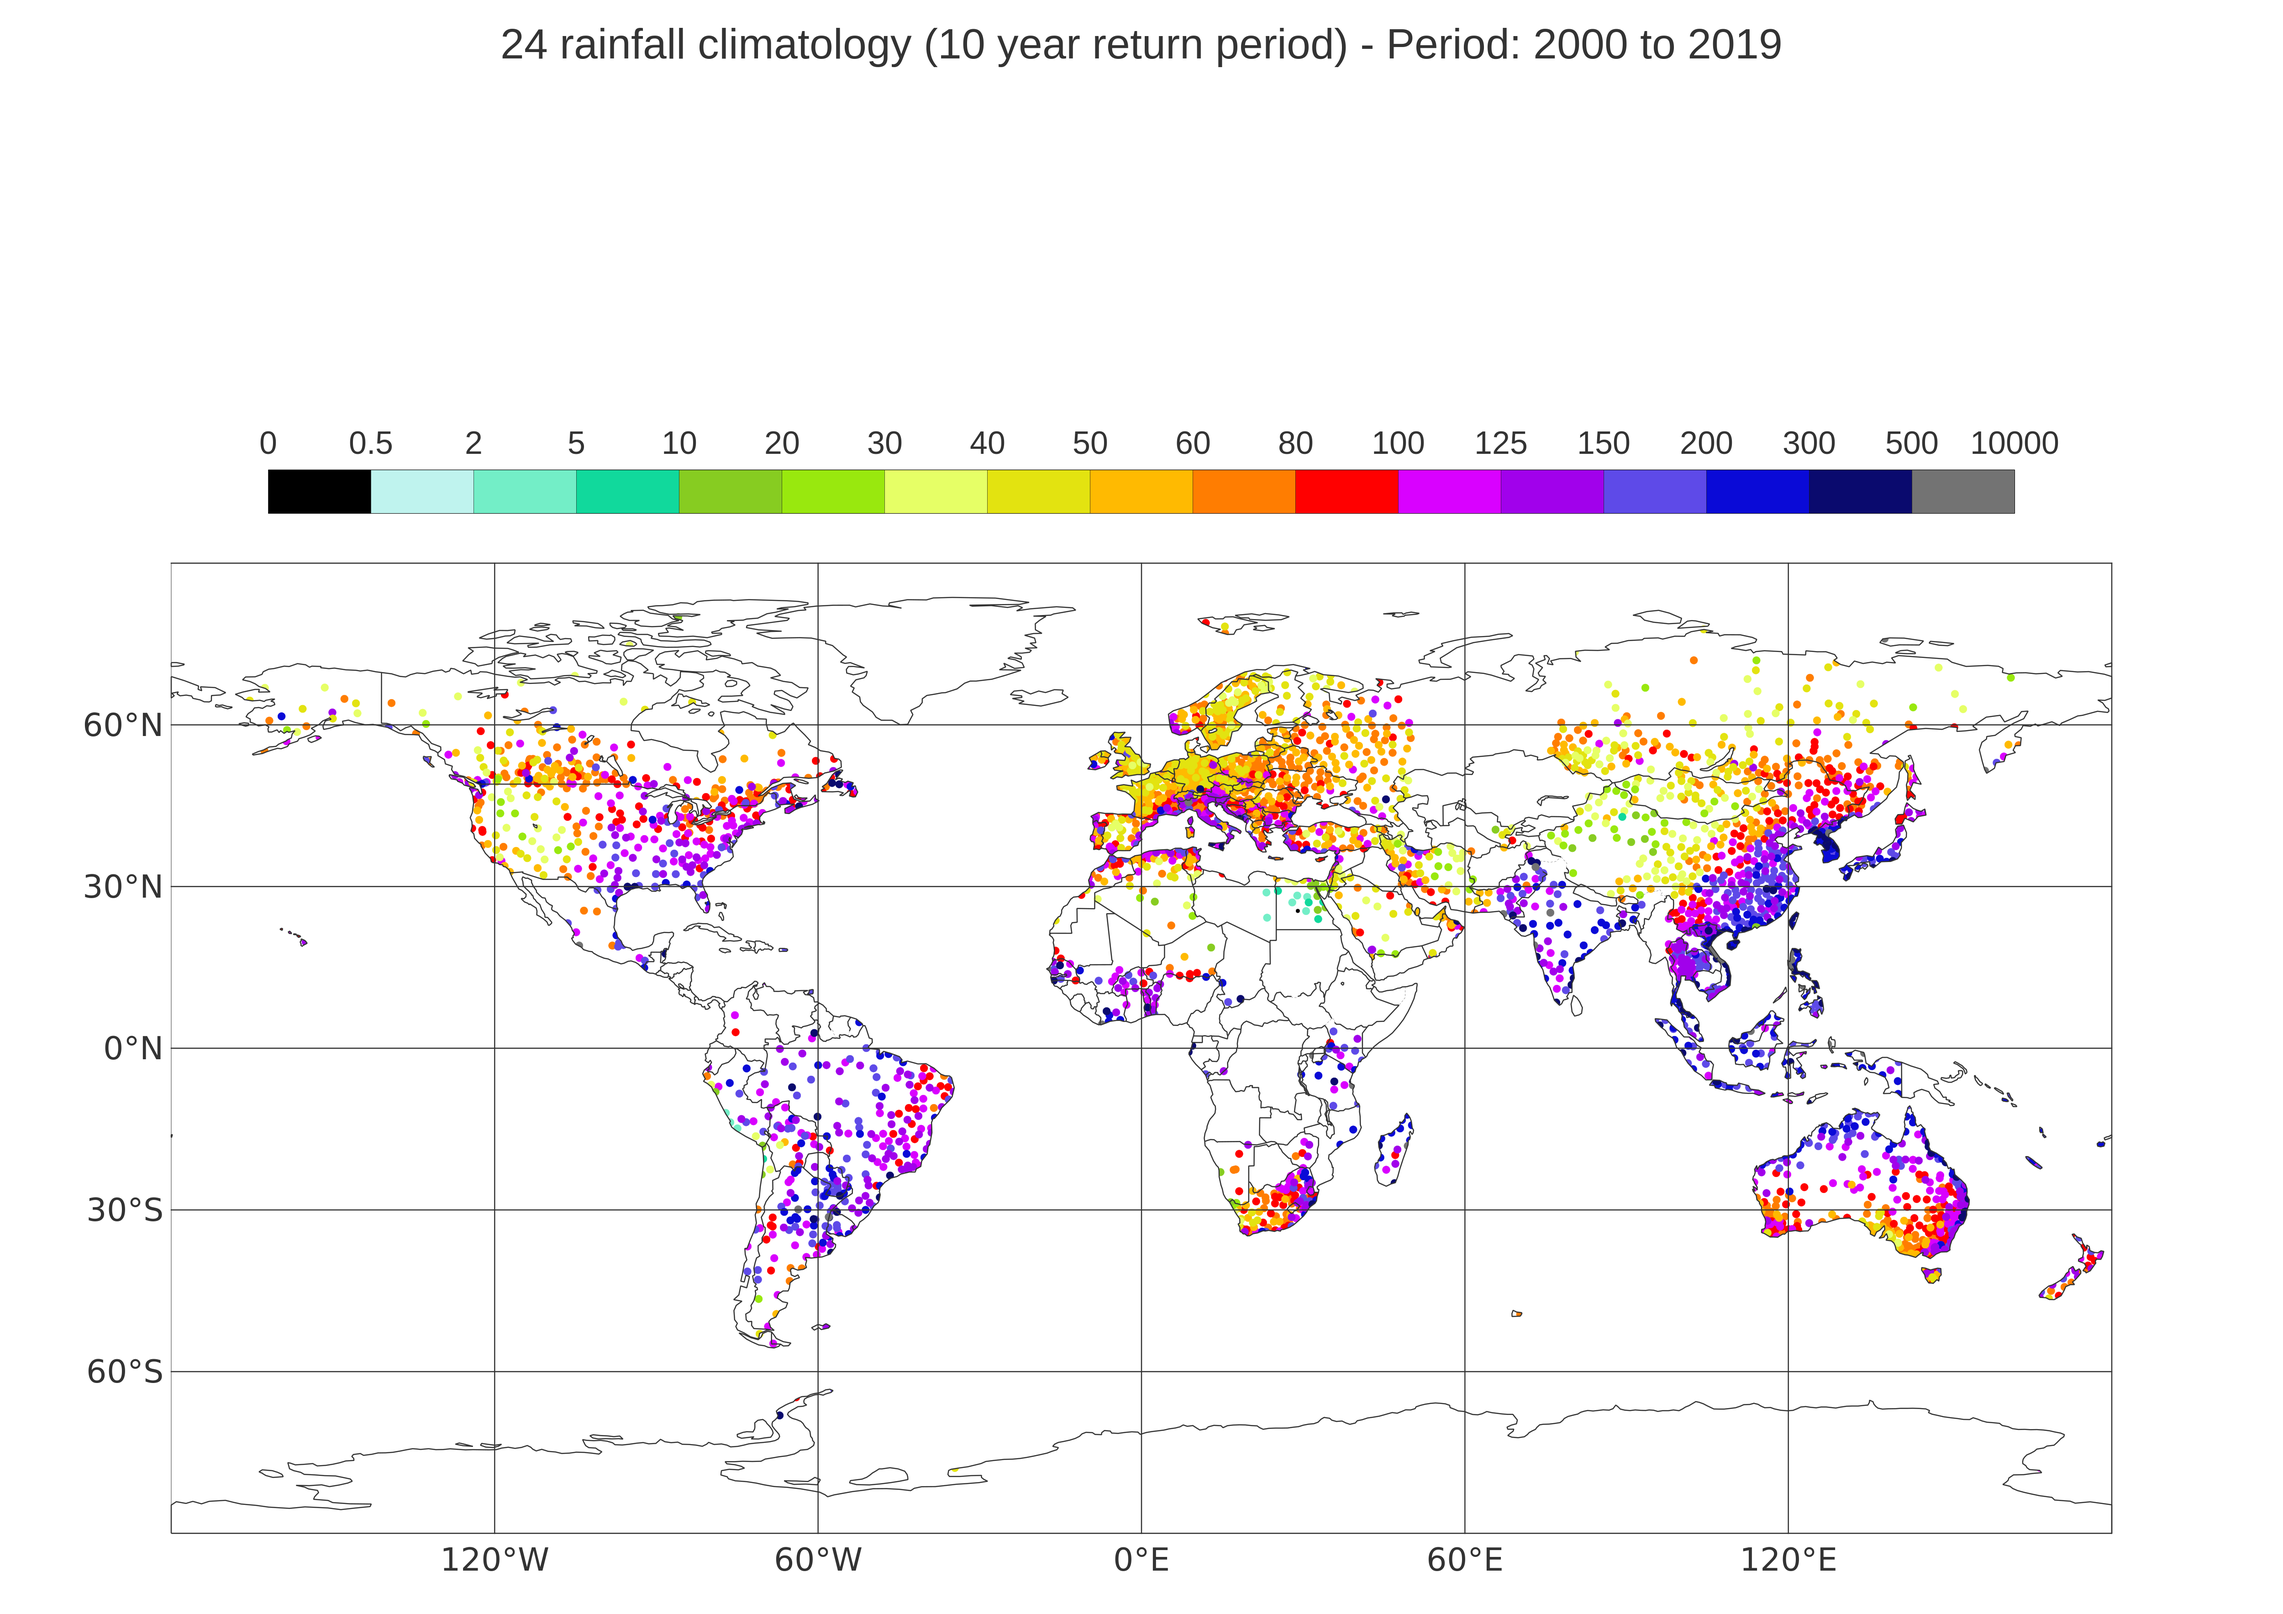
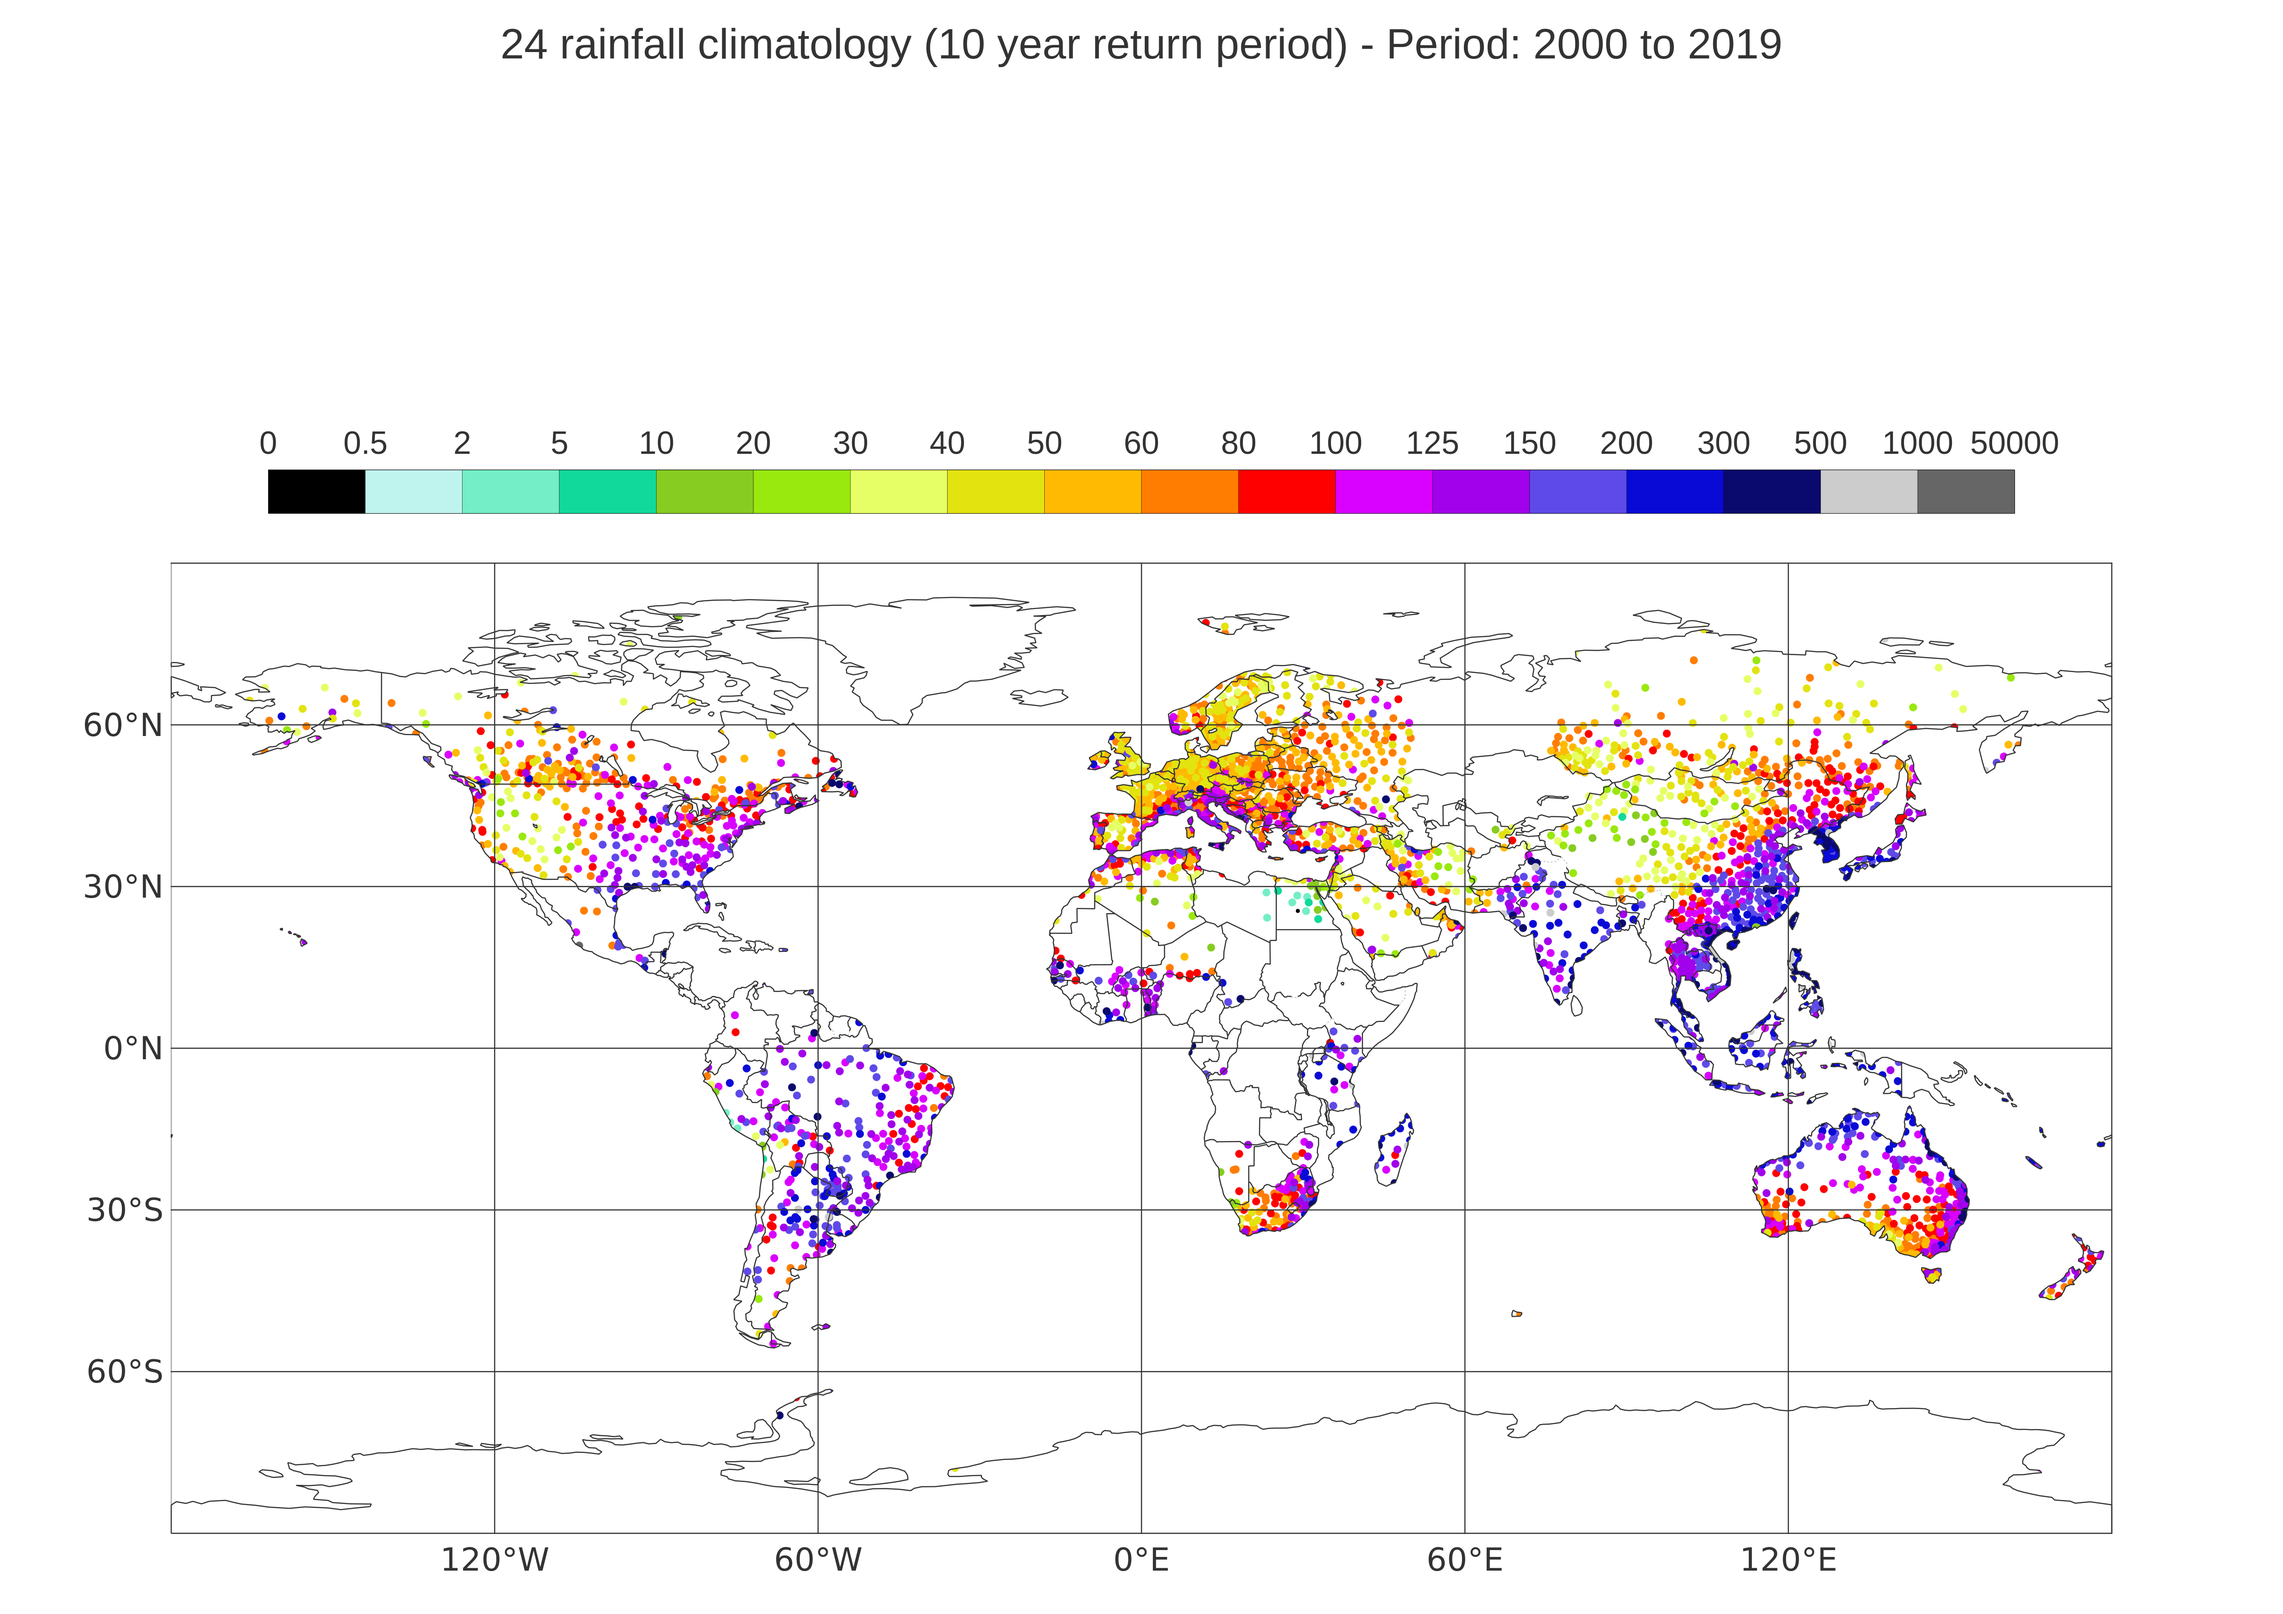
Added the plots of the observational point rainfall climatologies.

Changed region(s): [[0.3744, 0.2489, 0.8736, 0.3423], [0.2808, 0.2489, 0.3432, 0.3112], [0.1872, 0.2801, 0.2496, 0.3112]]

diff --git a/Scripts/Processed/02_Plot_Climate_OBS.py b/Scripts/Processed/02_Plot_Climate_OBS.py
@@ -90,10 +90,10 @@ for ind_RP in range(len(RP_2_Plot_list)):
             symbol_table_mode = "ON",
             legend = "ON",
             symbol_quality = "HIGH",
-            symbol_min_table = [ 0,0.5,2,5,10,20,30,40,50,60,80,100,125,150,200,300,500],
-            symbol_max_table = [ 0.5,2,5,10,20,30,40,50,60,80,100,125,150,200,300,500,10000],
+            symbol_min_table = [ 0,0.5,2,5,10,20,30,40,50,60,80,100,125,150,200,300,500, 1000],
+            symbol_max_table = [ 0.5,2,5,10,20,30,40,50,60,80,100,125,150,200,300,500,1000, 50000],
             symbol_marker_table = [ 15,15,15,15,15,15,15,15,15,15,15,15,15,15,15,15,15],
-            symbol_colour_table = ["black","RGB(0.75,0.95,0.93)","RGB(0.45,0.93,0.78)","RGB(0.07,0.85,0.61)","RGB(0.53,0.8,0.13)","RGB(0.6,0.91,0.057)","RGB(0.9,1,0.4)","RGB(0.89,0.89,0.066)","RGB(1,0.73,0.0039)","RGB(1,0.49,0.0039)","red","RGB(0.85,0.0039,1)","RGB(0.63,0.0073,0.92)","RGB(0.37,0.29,0.91)","RGB(0.04,0.04,0.84)","RGB(0.042,0.042,0.43)","RGB(0.45,0.45,0.45)"],
+            symbol_colour_table = ["black","RGB(0.75,0.95,0.93)","RGB(0.45,0.93,0.78)","RGB(0.07,0.85,0.61)","RGB(0.53,0.8,0.13)","RGB(0.6,0.91,0.057)","RGB(0.9,1,0.4)","RGB(0.89,0.89,0.066)","RGB(1,0.73,0.0039)","RGB(1,0.49,0.0039)","red","RGB(0.85,0.0039,1)","RGB(0.63,0.0073,0.92)","RGB(0.37,0.29,0.91)","RGB(0.04,0.04,0.84)","RGB(0.042,0.042,0.43)","RGB(0.8,0.8,0.8)","RGB(0.4,0.4,0.4)"],
             symbol_height_table = [ 0.1,0.2,0.2,0.2,0.2,0.2,0.2,0.2,0.2,0.2,0.2,0.2,0.2,0.2,0.2,0.2,0.2]
             )
 
